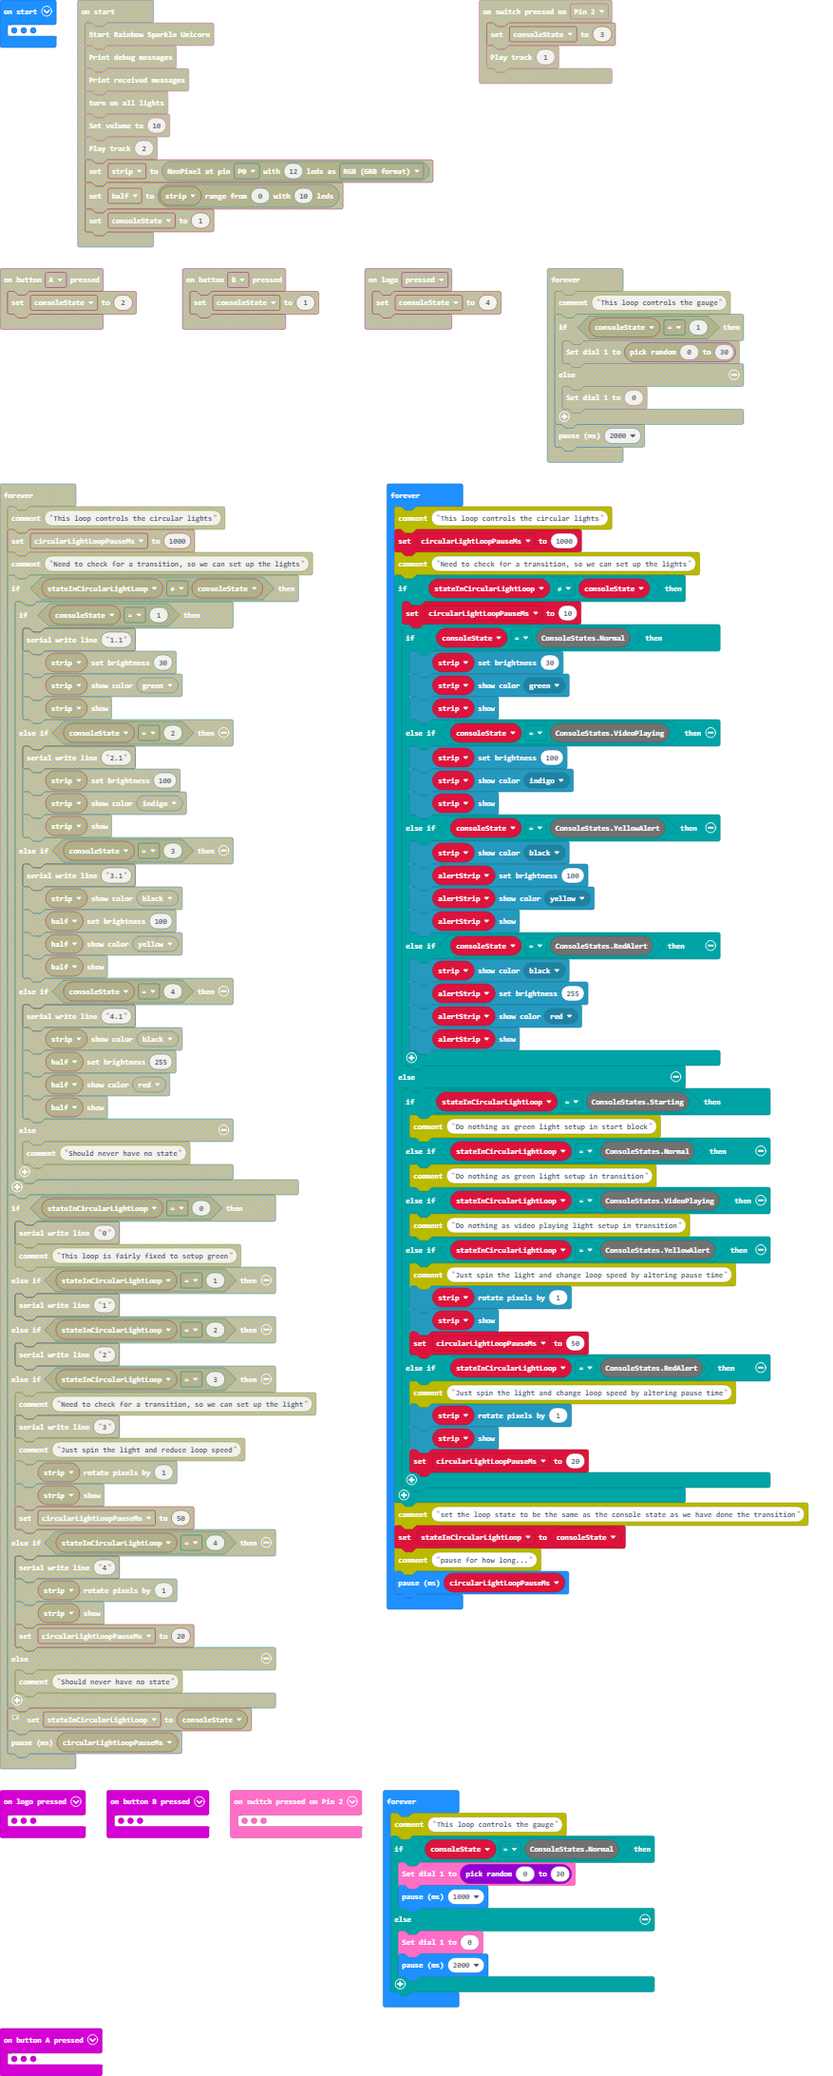
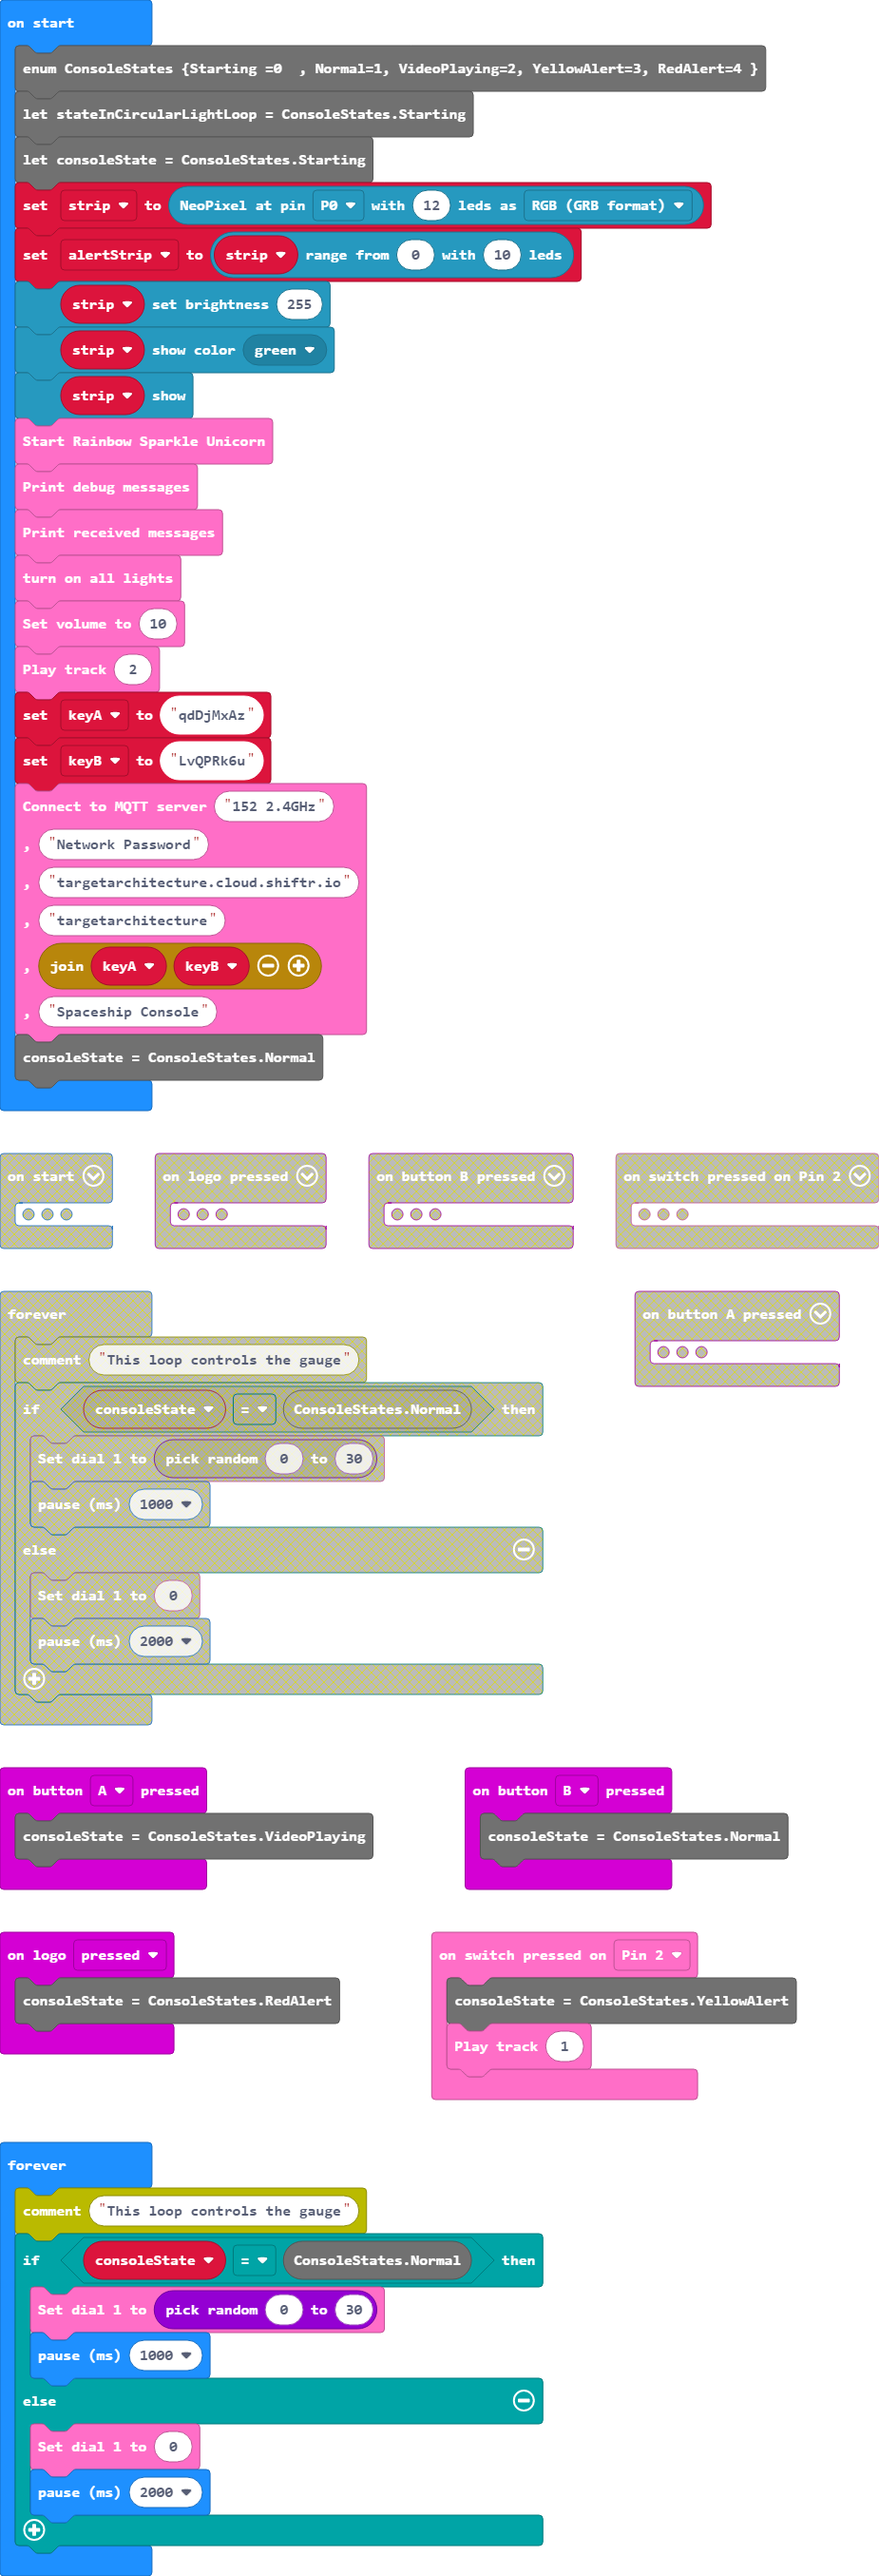
Update main.blocks, main.ts

diff --git a/main.ts b/main.ts
@@ -26,6 +26,16 @@ RainbowSparkleUnicorn.printReceivedMessages()
 RainbowSparkleUnicorn.Light.turnAllOn()
 RainbowSparkleUnicorn.Sound.setVolume(10)
 RainbowSparkleUnicorn.Sound.playTrack(2)
+let keyA = "qdDjMxAz"
+let keyB = "LvQPRk6u"
+RainbowSparkleUnicorn.IoT.connectToInterWeb(
+"152 2.4GHz",
+"Network Password",
+"targetarchitecture.cloud.shiftr.io",
+"targetarchitecture",
+"" + keyA + keyB,
+"Spaceship Console"
+)
 consoleState = ConsoleStates.Normal
 basic.forever(function () {
     comment.comment("This loop controls the circular lights")
